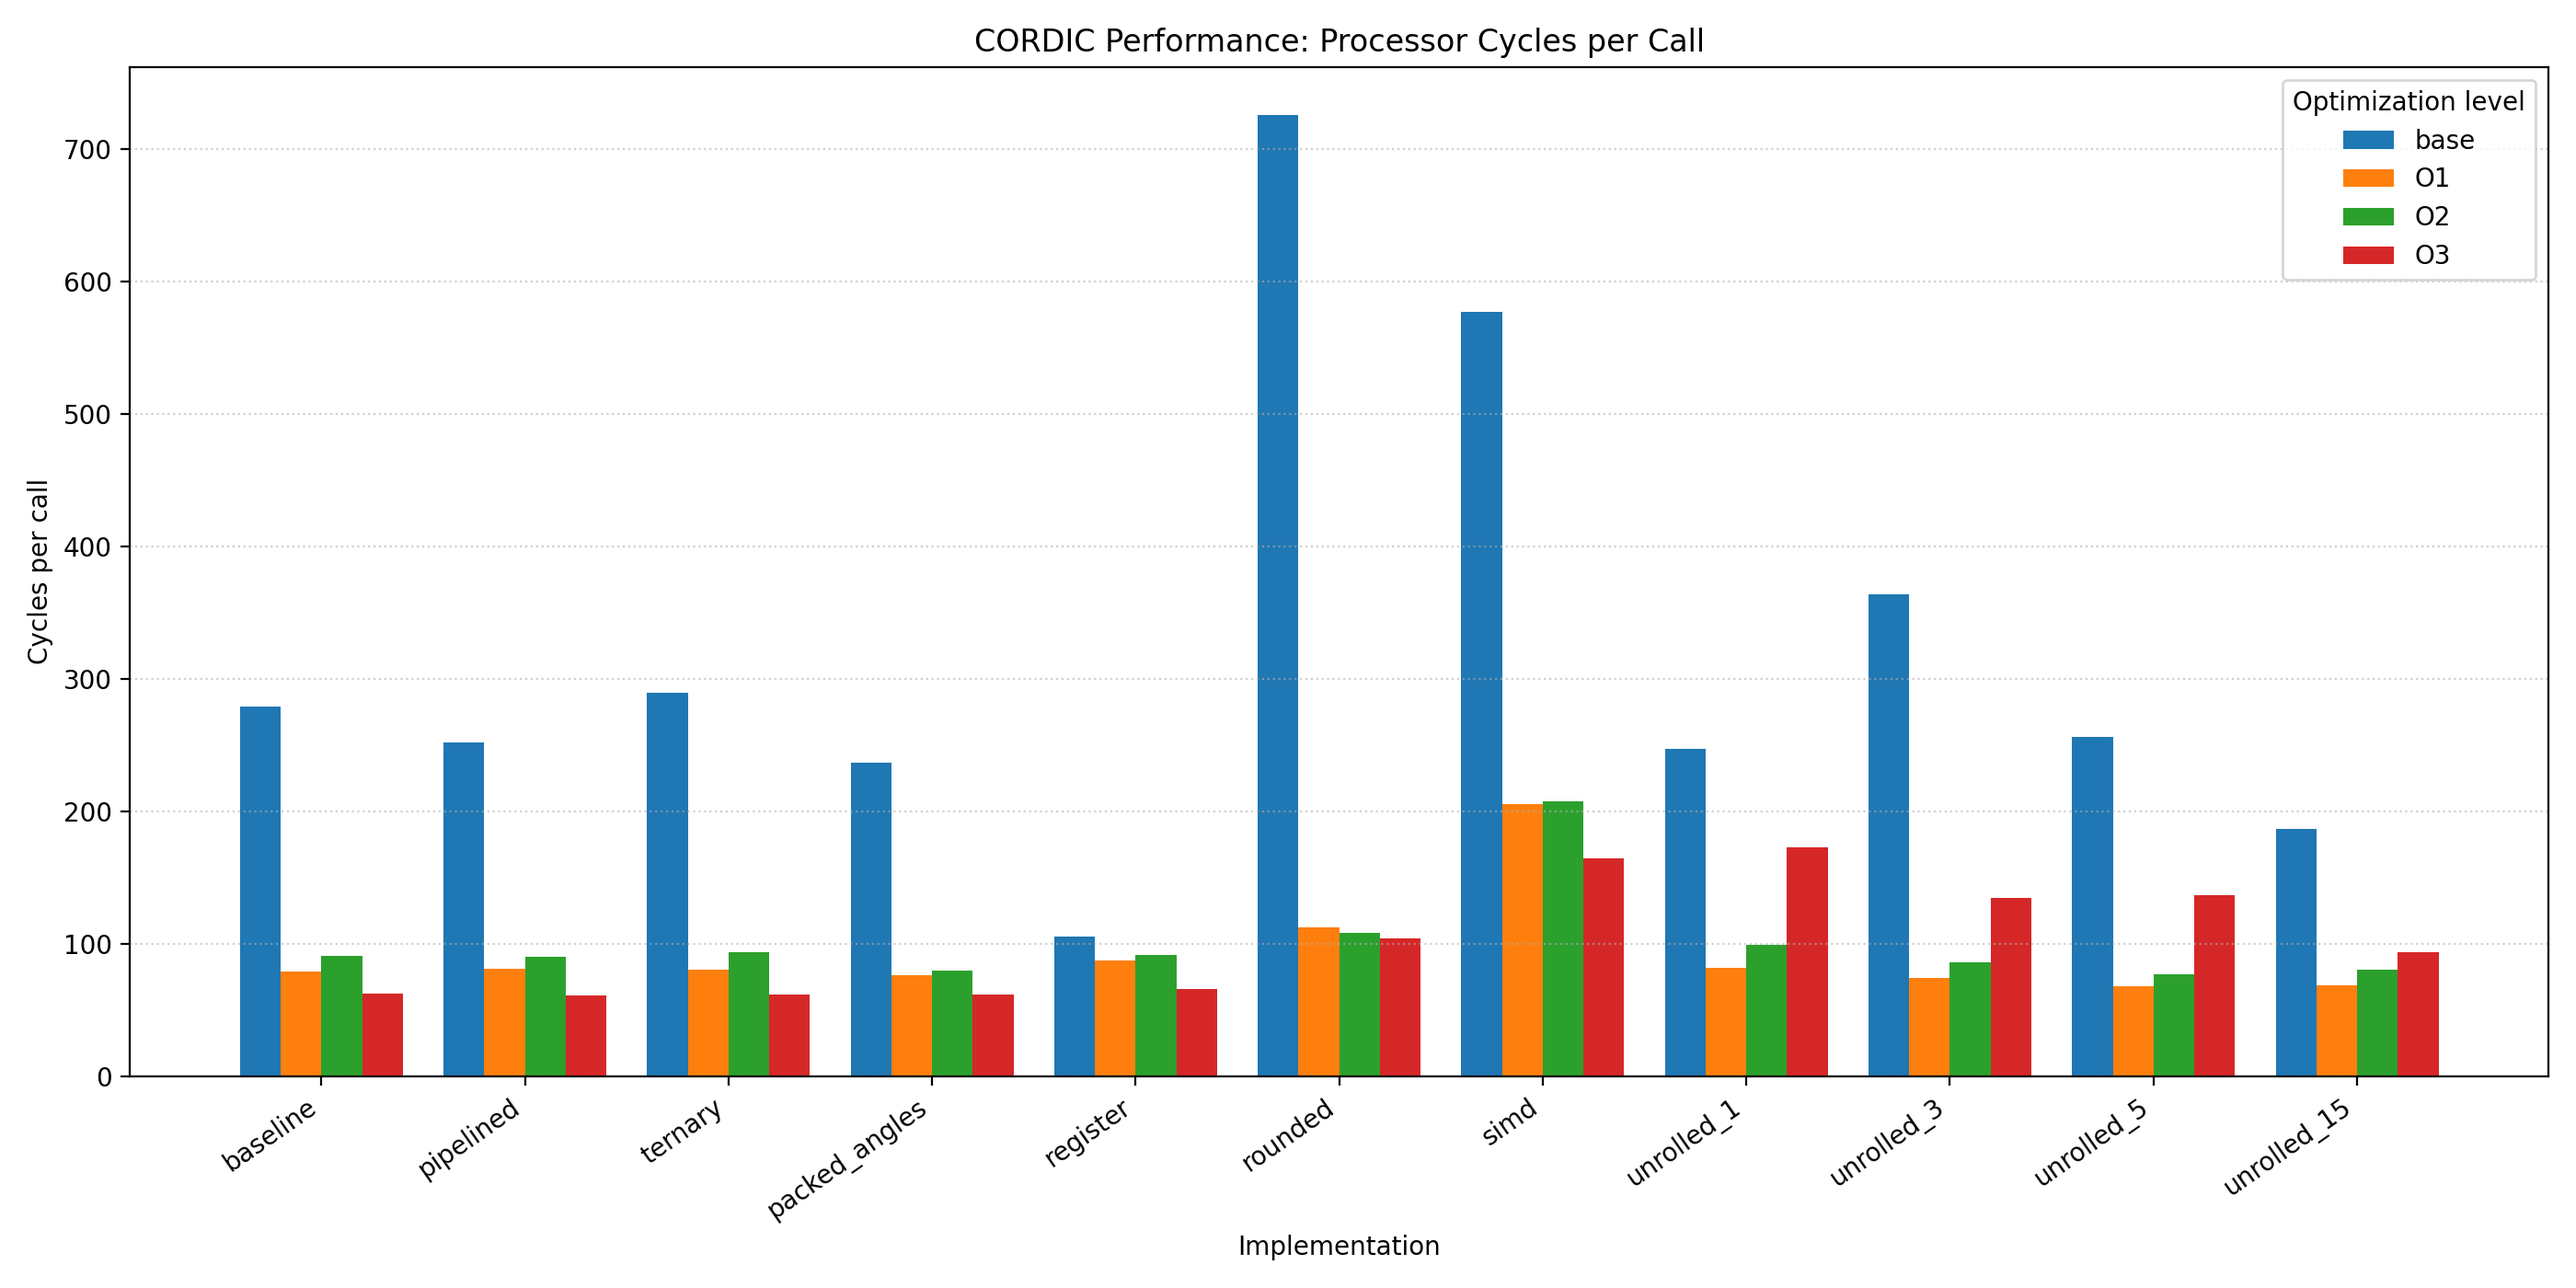
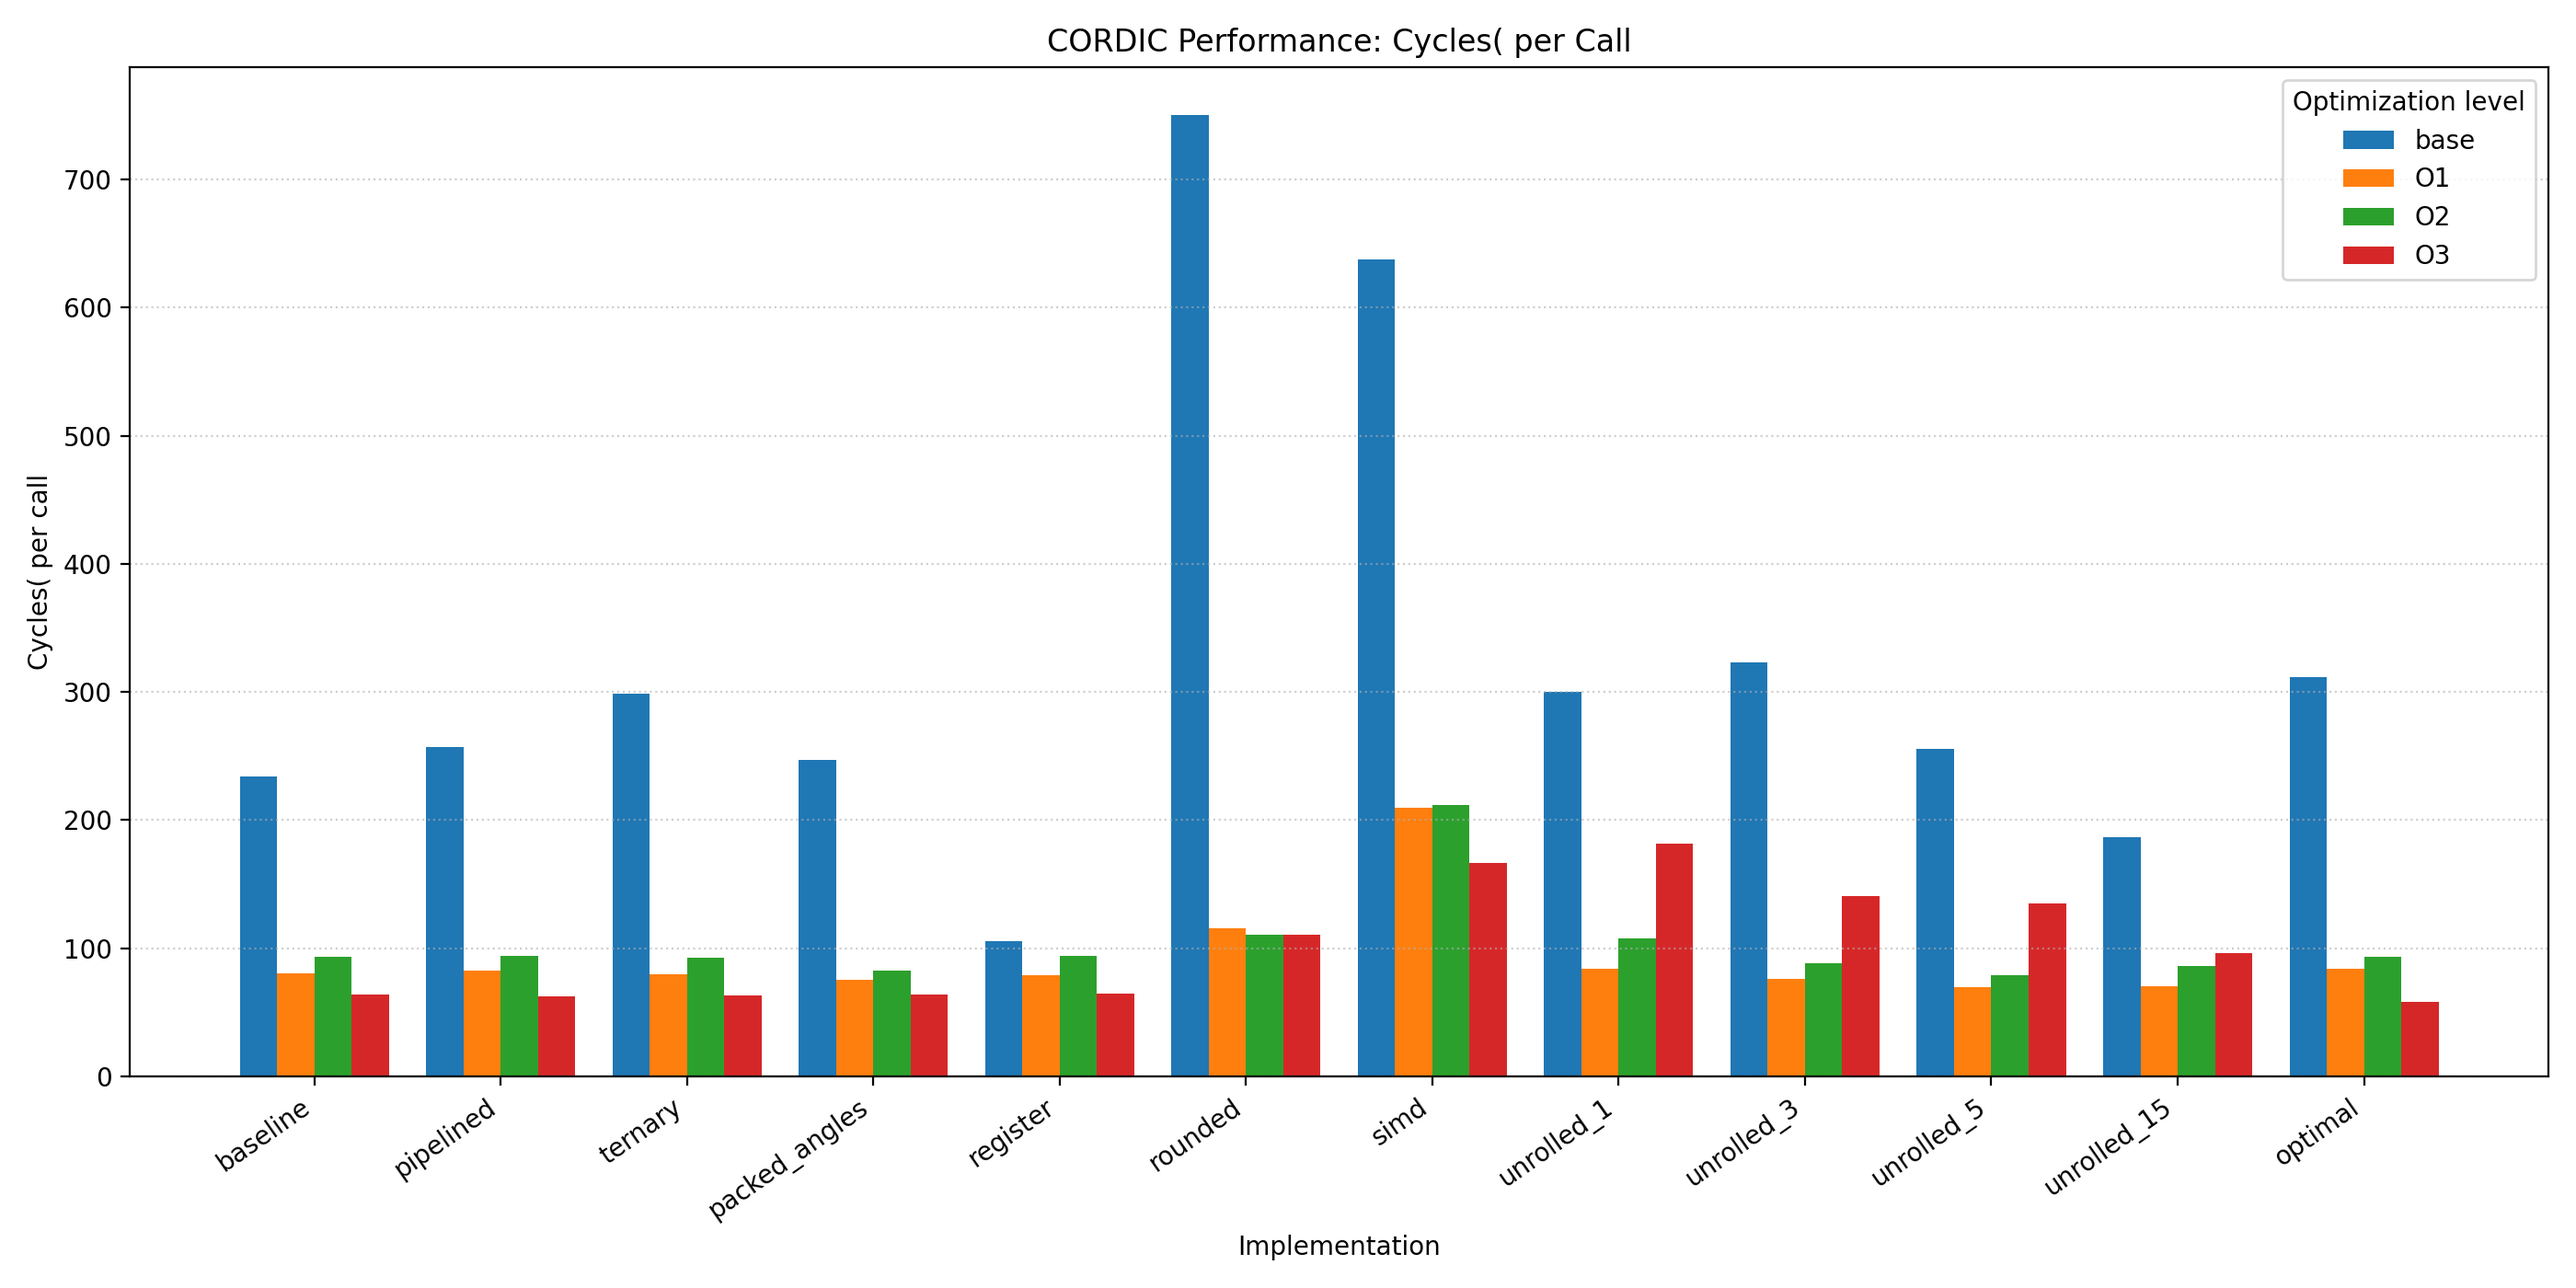
re-organize c-based folder

diff --git a/c-based/count-cycles/plot_cycles.py b/c-based/count-cycles/plot_cycles.py
@@ -9,8 +9,8 @@ import numpy as np
 
 
 def main() -> None:
-    input_path = sys.argv[1] if len(sys.argv) > 1 else "us_per_call.csv"
-    output_path = sys.argv[2] if len(sys.argv) > 2 else "us_per_call.png"
+    input_path = sys.argv[1] if len(sys.argv) > 1 else "cycles_per_call.csv"
+    output_path = sys.argv[2] if len(sys.argv) > 2 else "cycles_per_call.png"
 
     with open(input_path, newline="", encoding="utf-8") as csv_file:
         rows = list(csv.DictReader(csv_file))
@@ -29,9 +29,9 @@ def main() -> None:
         offset = (index - (len(levels) - 1) / 2) * bar_width
         axis.bar(positions + offset, values, bar_width, label=level)
 
-    axis.set_title("CORDIC Performance: Microseconds per Call")
+    axis.set_title("CORDIC Performance: Cycles( per Call")
     axis.set_xlabel("Implementation")
-    axis.set_ylabel("Microseconds per call")
+    axis.set_ylabel("Cycles( per call")
     axis.set_xticks(positions, implementations, rotation=35, ha="right")
     axis.grid(axis="y", linestyle=":", alpha=0.6)
     axis.legend(title="Optimization level")
